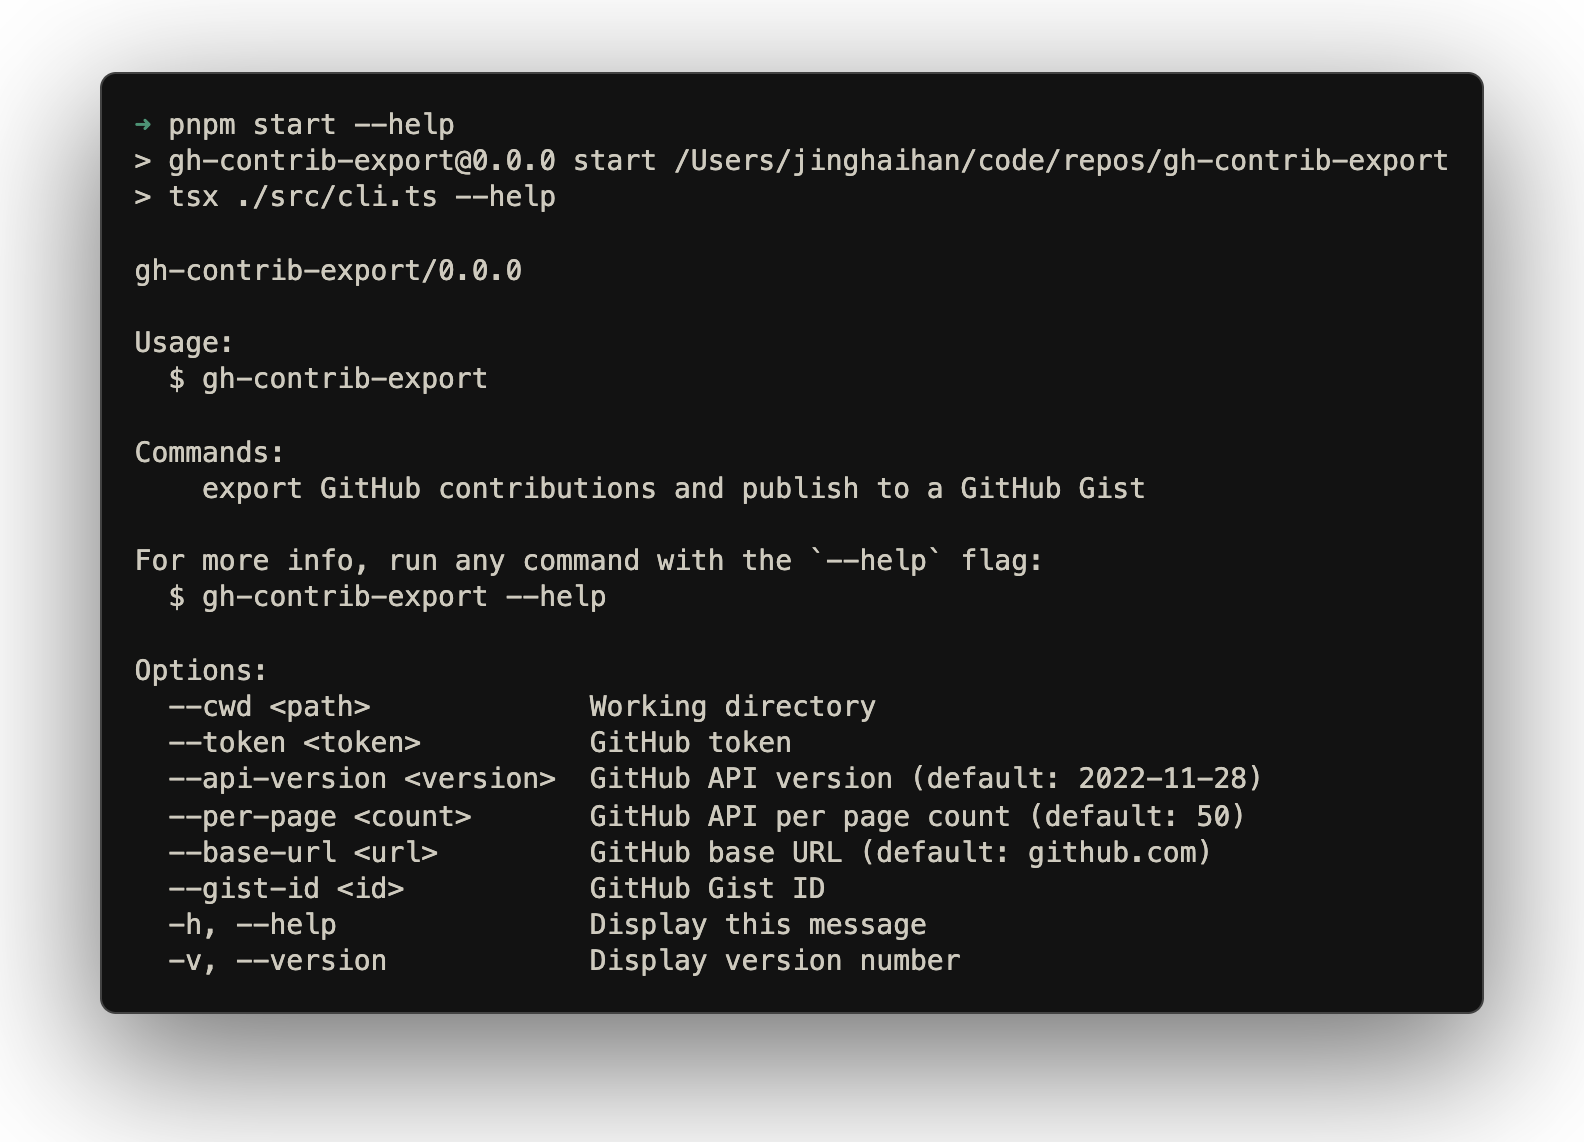
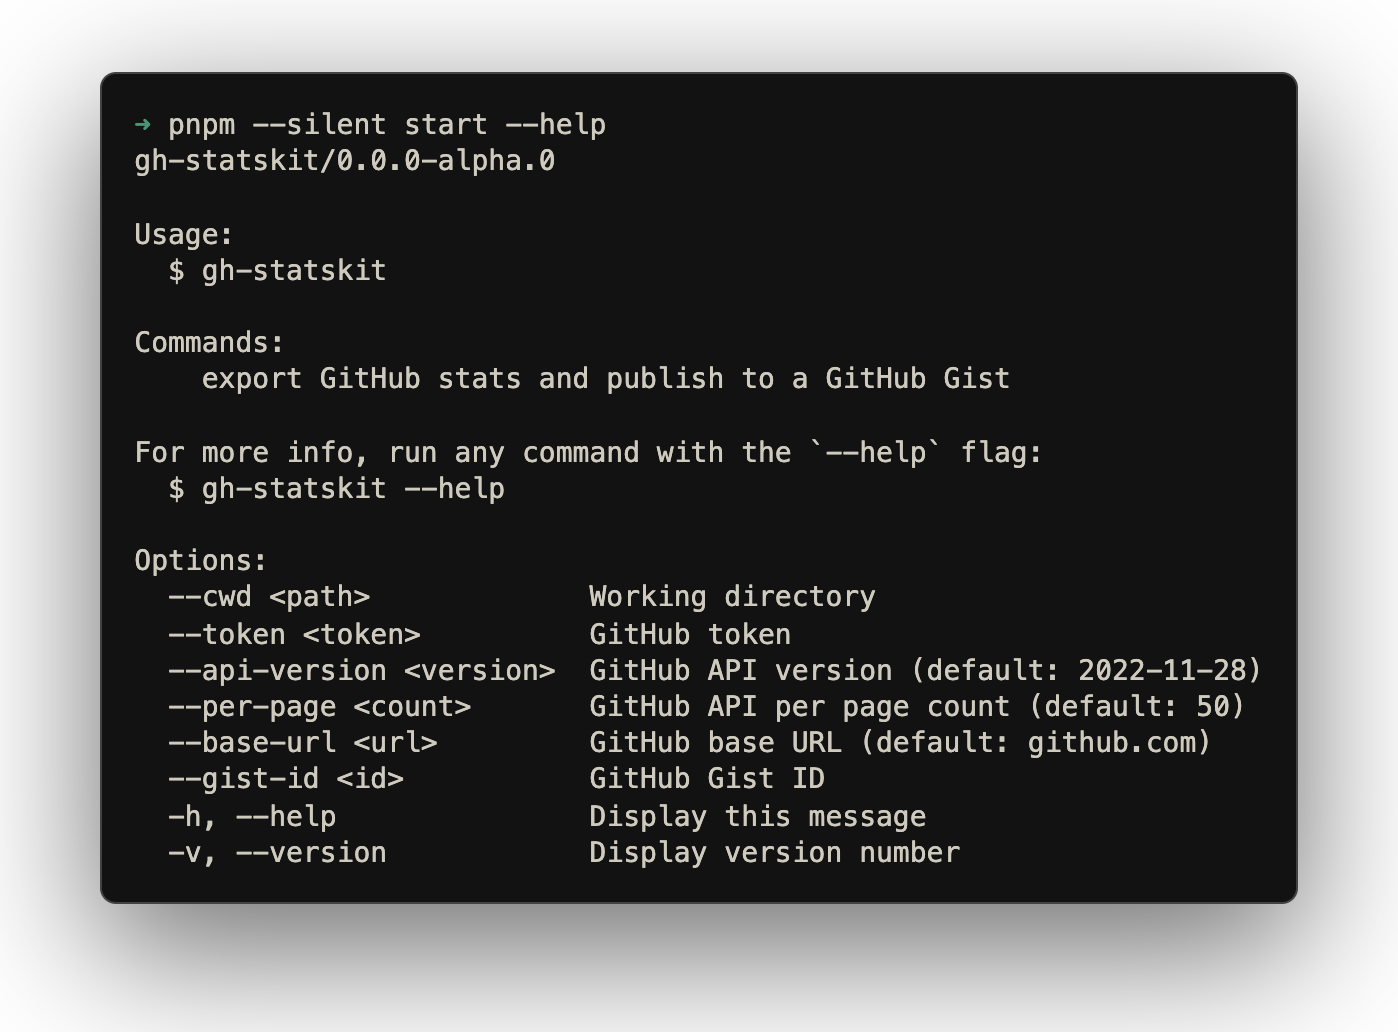
feat: calculate stats rank

Changed region(s): [[0.0615, 0.062, 0.9535, 0.8992], [0.5844, 0.3411, 0.7074, 0.3721]]

diff --git a/src/cli.ts b/src/cli.ts
@@ -1,5 +1,12 @@
 import type { CAC } from 'cac'
-import type { CommandOptions, GraphQLUser, Options, PullRequest, Stats, User } from './types'
+import type {
+  CommandOptions,
+  GitHubStats,
+  GraphQLUser,
+  Options,
+  PullRequest,
+  User,
+} from './types'
 import { writeFile } from 'node:fs/promises'
 import process from 'node:process'
 import * as p from '@clack/prompts'
@@ -9,12 +16,13 @@ import { join } from 'pathe'
 import { resolveConfig } from './config'
 import { NAME, VERSION } from './constants'
 import { getGraphQLStats, getPullRequests, getUser, updateGist } from './git'
+import { calculateRank } from './rank'
 
 try {
   const cli: CAC = cac(NAME)
 
   cli
-    .command('', 'export GitHub contributions and publish to a GitHub Gist')
+    .command('', 'Export GitHub stats and publish to a GitHub Gist')
     .option('--cwd <path>', 'Working directory')
     .option('--token <token>', 'GitHub token')
     .option('--api-version <version>', 'GitHub API version', { default: '2022-11-28' })
@@ -29,8 +37,9 @@ try {
 
       const user = await fetchUser(config)
       const contributions = await fetchContributions(user, config)
+
       const stats = await fetchStats(user, config)
-      const data: Stats = {
+      const data: Omit<GitHubStats, 'rank'> = {
         user,
         contributions,
         commits: stats.commits,
@@ -45,7 +54,18 @@ try {
         repositoryDiscussionComments: stats.repositoryDiscussionComments,
         repositories: stats.repositories,
       }
-      await generate(data, config)
+
+      const rank = calculateRank({
+        commits: data.commits.totalCommitContributions ?? 0,
+        prs: data.pullRequests.totalCount ?? 0,
+        issues: data.openIssues.totalCount + data.closedIssues.totalCount,
+        reviews: data.reviews.totalPullRequestReviewContributions ?? 0,
+        repos: data.repositories.totalCount,
+        stars: data.repositories.nodes.reduce((acc, repo) => acc + repo.stargazers.totalCount, 0),
+        followers: data.followers.totalCount ?? 0,
+      })
+
+      await generate({ ...data, rank }, config)
     })
 
   cli.help()
@@ -81,8 +101,8 @@ async function fetchContributions(user: User, options: Options): Promise<PullReq
   return data
 }
 
-async function generate(data: Stats, options: Options) {
-  const filepath = join(options.cwd, 'stats.json')
+async function generate(data: GitHubStats, options: Options) {
+  const filepath = join(options.cwd, 'github-stats.json')
   await writeFile(filepath, JSON.stringify(data, null, 2))
 
   if (!options.gistId) {

diff --git a/src/git.ts b/src/git.ts
@@ -1,4 +1,11 @@
-import type { GraphQLStatsResponse, GraphQLUser, Options, PullRequest, Stats, User } from './types'
+import type {
+  GitHubStats,
+  GraphQLStatsResponse,
+  GraphQLUser,
+  Options,
+  PullRequest,
+  User,
+} from './types'
 import { execa } from 'execa'
 import pRetry from 'p-retry'
 import { GRAPHQL_STATS_QUERY } from './constants'
@@ -8,7 +15,8 @@ const RepoCache = new Map()
 
 export async function readTokenFromGitHubCli() {
   try {
-    return await execa('gh', ['auth', 'token'])
+    const { stdout } = await execa('gh', ['auth', 'token'])
+    return stdout.trim()
   }
   catch {
     return ''
@@ -92,9 +100,9 @@ export async function getGraphQLStats(user: User, options: Options): Promise<Gra
   const variables = {
     login: user.username,
     after: null,
-    includeMergedPullRequests: options.mergedPullRequests,
-    includeDiscussions: options.discussions,
-    includeDiscussionsAnswers: options.discussionsAnswers,
+    includeMergedPullRequests: true,
+    includeDiscussions: true,
+    includeDiscussionsAnswers: true,
   }
 
   const response = await pRetry(
@@ -107,7 +115,7 @@ export async function getGraphQLStats(user: User, options: Options): Promise<Gra
   return graphqlUser
 }
 
-export async function updateGist(data: Stats, gistId: string, token: string): Promise<string> {
+export async function updateGist(data: GitHubStats, gistId: string, token: string): Promise<string> {
   const octokit = getOctoKit(token)
   const existingGist = await pRetry(
     async () => {
@@ -117,8 +125,8 @@ export async function updateGist(data: Stats, gistId: string, token: string): Pr
     },
     { retries: 3 },
   )
-  if (!existingGist.data.files?.[`stats.json`])
-    throw new Error('Gist does not contain stats.json file')
+  if (!existingGist.data.files?.[`github-stats.json`])
+    throw new Error('Gist does not contain github-stats.json file')
 
   const content = JSON.stringify(data, null, 2)
   const response = await pRetry(
@@ -126,7 +134,7 @@ export async function updateGist(data: Stats, gistId: string, token: string): Pr
       return await octokit.request('PATCH /gists/{gist_id}', {
         gist_id: gistId,
         files: {
-          'stats.json': {
+          'github-stats.json': {
             content,
           },
         },

diff --git a/src/types.ts b/src/types.ts
@@ -19,18 +19,6 @@ export interface CommandOptions {
    */
   baseUrl?: string
   /**
-   * Whether to include merged pull requests
-   */
-  mergedPullRequests?: boolean
-  /**
-   * Whether to include discussions
-   */
-  discussions?: boolean
-  /**
-   * Whether to include discussions answers
-   */
-  discussionsAnswers?: boolean
-  /**
    * GitHub Gist ID
    */
   gistId?: string
@@ -59,20 +47,21 @@ export interface PullRequest {
   stars: number
 }
 
-export interface Stats {
+export interface GitHubStats {
   user: User
   contributions: PullRequest[]
   commits: ContributionsCollection
   reviews: ContributionsCollection
   repositoriesContributedTo: RepositoriesContributedTo
   pullRequests: PullRequestsData
-  mergedPullRequests?: PullRequestsData
+  mergedPullRequests: PullRequestsData
   openIssues: IssuesData
   closedIssues: IssuesData
   followers: FollowersData
-  repositoryDiscussions?: RepositoryDiscussionsData
-  repositoryDiscussionComments?: RepositoryDiscussionCommentsData
+  repositoryDiscussions: RepositoryDiscussionsData
+  repositoryDiscussionComments: RepositoryDiscussionCommentsData
   repositories: RepositoriesData
+  rank: RankResult
 }
 
 export interface GraphQLStatsResponse {
@@ -86,12 +75,12 @@ export interface GraphQLUser {
   reviews: ContributionsCollection
   repositoriesContributedTo: RepositoriesContributedTo
   pullRequests: PullRequestsData
-  mergedPullRequests?: PullRequestsData
+  mergedPullRequests: PullRequestsData
   openIssues: IssuesData
   closedIssues: IssuesData
   followers: FollowersData
-  repositoryDiscussions?: RepositoryDiscussionsData
-  repositoryDiscussionComments?: RepositoryDiscussionCommentsData
+  repositoryDiscussions: RepositoryDiscussionsData
+  repositoryDiscussionComments: RepositoryDiscussionCommentsData
   repositories: RepositoriesData
 }
 
@@ -136,4 +125,19 @@ export interface Repository {
 
 export interface StargazersData {
   totalCount: number
+}
+
+export interface RankParams {
+  commits: number
+  prs: number
+  issues: number
+  reviews: number
+  repos: number
+  stars: number
+  followers: number
+}
+
+export interface RankResult {
+  level: string
+  percentile: number
 }

diff --git a/src/rank.ts b/src/rank.ts
@@ -1,0 +1,67 @@
+import type { RankParams, RankResult } from './types'
+
+/**
+ * Calculates the exponential cdf.
+ */
+function exponential_cdf(x: number): number {
+  return 1 - 2 ** -x
+}
+
+/**
+ * Calculates the log normal cdf.
+ */
+function log_normal_cdf(x: number): number {
+  // approximation
+  return x / (1 + x)
+}
+
+/**
+ * Calculates the users rank based on their GitHub statistics.
+ */
+export function calculateRank({
+  commits,
+  prs,
+  issues,
+  reviews,
+  repos: _repos, // unused
+  stars,
+  followers,
+}: RankParams): RankResult {
+  const COMMITS_MEDIAN = 250
+  const COMMITS_WEIGHT = 2
+  const PRS_MEDIAN = 50
+  const PRS_WEIGHT = 3
+  const ISSUES_MEDIAN = 25
+  const ISSUES_WEIGHT = 1
+  const REVIEWS_MEDIAN = 2
+  const REVIEWS_WEIGHT = 1
+  const STARS_MEDIAN = 50
+  const STARS_WEIGHT = 4
+  const FOLLOWERS_MEDIAN = 10
+  const FOLLOWERS_WEIGHT = 1
+
+  const TOTAL_WEIGHT
+    = COMMITS_WEIGHT
+      + PRS_WEIGHT
+      + ISSUES_WEIGHT
+      + REVIEWS_WEIGHT
+      + STARS_WEIGHT
+      + FOLLOWERS_WEIGHT
+
+  const THRESHOLDS = [1, 12.5, 25, 37.5, 50, 62.5, 75, 87.5, 100]
+  const LEVELS = ['S', 'A+', 'A', 'A-', 'B+', 'B', 'B-', 'C+', 'C']
+
+  const rank
+    = 1
+      - (COMMITS_WEIGHT * exponential_cdf(commits / COMMITS_MEDIAN)
+        + PRS_WEIGHT * exponential_cdf(prs / PRS_MEDIAN)
+        + ISSUES_WEIGHT * exponential_cdf(issues / ISSUES_MEDIAN)
+        + REVIEWS_WEIGHT * exponential_cdf(reviews / REVIEWS_MEDIAN)
+        + STARS_WEIGHT * log_normal_cdf(stars / STARS_MEDIAN)
+        + FOLLOWERS_WEIGHT * log_normal_cdf(followers / FOLLOWERS_MEDIAN))
+      / TOTAL_WEIGHT
+
+  const level = LEVELS[THRESHOLDS.findIndex(t => rank * 100 <= t)]
+
+  return { level, percentile: rank * 100 }
+}

diff --git a/src/constants.ts b/src/constants.ts
@@ -9,9 +9,6 @@ export const DEFAULT_OPTIONS: Partial<CommandOptions> = {
   apiVersion: '2022-11-28',
   perPage: 50,
   baseUrl: 'github.com',
-  mergedPullRequests: true,
-  discussions: true,
-  discussionsAnswers: true,
   yes: false,
 }
 

diff --git a/src/index.ts b/src/index.ts
@@ -1,7 +1,2 @@
-import type { CommandOptions } from './types'
-
+export * from './rank'
 export * from './types'
-
-export function defineConfig(config: Partial<CommandOptions>) {
-  return config
-}

diff --git a/README.md b/README.md
@@ -1,10 +1,10 @@
-# GitHub Contributions Export
+# GitHub Statskit
 
 [![npm version][npm-version-src]][npm-version-href]
 [![JSDocs][jsdocs-src]][jsdocs-href]
 [![License][license-src]][license-href]
 
-A CLI tool to export your GitHub contributions (Pull Requests) and publish to a GitHub Gist. Automatically sync your contribution data to a Gist for easy sharing and tracking.
+A CLI tool to export your GitHub stats and publish to a GitHub Gist. Automatically sync your contribution data to a Gist for easy sharing and tracking.
 
 <p align='center'>
 <img src='./assets/help.png' />
@@ -14,27 +14,27 @@ A CLI tool to export your GitHub contributions (Pull Requests) and publish to a 
 
 ### Local usage
 
-Run the tool locally to export your contributions:
+Run the tool locally to export your stats:
 
 ```bash
 export GH_PAT=your_github_token
 
 # Export to local file
-npx gh-contrib-export
+npx gh-statskit
 
-# Export and update Gist
-npx gh-contrib-export --gist-id id
+# Update to Gist
+npx gh-statskit --gist-id id
 ```
 
 ### GitHub CI usage
 
 > [!IMPORTANT]
-> Your Gist must already exist and contain a file named `contributions.json`. The tool will update this file with your latest contributions. If the file doesn't exist, the tool will throw an error.
+> Your Gist must already exist and contain a file named `github-stats.json`. The tool will update this file with your latest stats. If the file doesn't exist, the tool will throw an error.
 
-**Set up GitHub Actions** to automatically sync your contributions on a schedule:
+**Set up GitHub Actions** to automatically sync your stats on a schedule:
 
 ```yaml
-name: Upload Contributions
+name: Upload GitHub Stats
 
 on:
   push:
@@ -56,8 +56,8 @@ jobs:
         with:
           node-version: lts/*
 
-      - name: Export and Update Gist
-        run: npx gh-contrib-export
+      - name: Update to Gist
+        run: npx gh-statskit
         env:
           GH_PAT: ${{ secrets.GH_PAT }}
           GIST_ID: ${{ secrets.GIST_ID }}
@@ -66,7 +66,7 @@ jobs:
 **Configure secrets in your repository**:
    - Go to your repository Settings > Secrets and variables > Actions
    - Add `GH_PAT` as a repository secret (your GitHub Personal Access Token)
-   - Add `GIST_ID` as a repository secret (the ID of your Gist containing `contributions.json`)
+   - Add `GIST_ID` as a repository secret (the ID of your Gist containing `github-stats.json`)
 
 ## Credits
 
@@ -81,13 +81,13 @@ This project is inspired by:
 
 <!-- Badges -->
 
-[npm-version-src]: https://img.shields.io/npm/v/gh-contrib-export?style=flat&colorA=080f12&colorB=1fa669
-[npm-version-href]: https://npmjs.com/package/gh-contrib-export
-[npm-downloads-src]: https://img.shields.io/npm/dm/gh-contrib-export?style=flat&colorA=080f12&colorB=1fa669
-[npm-downloads-href]: https://npmjs.com/package/gh-contrib-export
-[bundle-src]: https://img.shields.io/bundlephobia/minzip/gh-contrib-export?style=flat&colorA=080f12&colorB=1fa669&label=minzip
-[bundle-href]: https://bundlephobia.com/result?p=gh-contrib-export
+[npm-version-src]: https://img.shields.io/npm/v/gh-statskit?style=flat&colorA=080f12&colorB=1fa669
+[npm-version-href]: https://npmjs.com/package/gh-statskit
+[npm-downloads-src]: https://img.shields.io/npm/dm/gh-statskit?style=flat&colorA=080f12&colorB=1fa669
+[npm-downloads-href]: https://npmjs.com/package/gh-statskit
+[bundle-src]: https://img.shields.io/bundlephobia/minzip/gh-statskit?style=flat&colorA=080f12&colorB=1fa669&label=minzip
+[bundle-href]: https://bundlephobia.com/result?p=gh-statskit
 [license-src]: https://img.shields.io/badge/license-MIT-blue.svg?style=flat&colorA=080f12&colorB=1fa669
-[license-href]: https://github.com/jinghaihan/gh-contrib-export/LICENSE
+[license-href]: https://github.com/jinghaihan/gh-statskit/LICENSE
 [jsdocs-src]: https://img.shields.io/badge/jsdocs-reference-080f12?style=flat&colorA=080f12&colorB=1fa669
-[jsdocs-href]: https://www.jsdocs.io/package/gh-contrib-export
+[jsdocs-href]: https://www.jsdocs.io/package/gh-statskit
